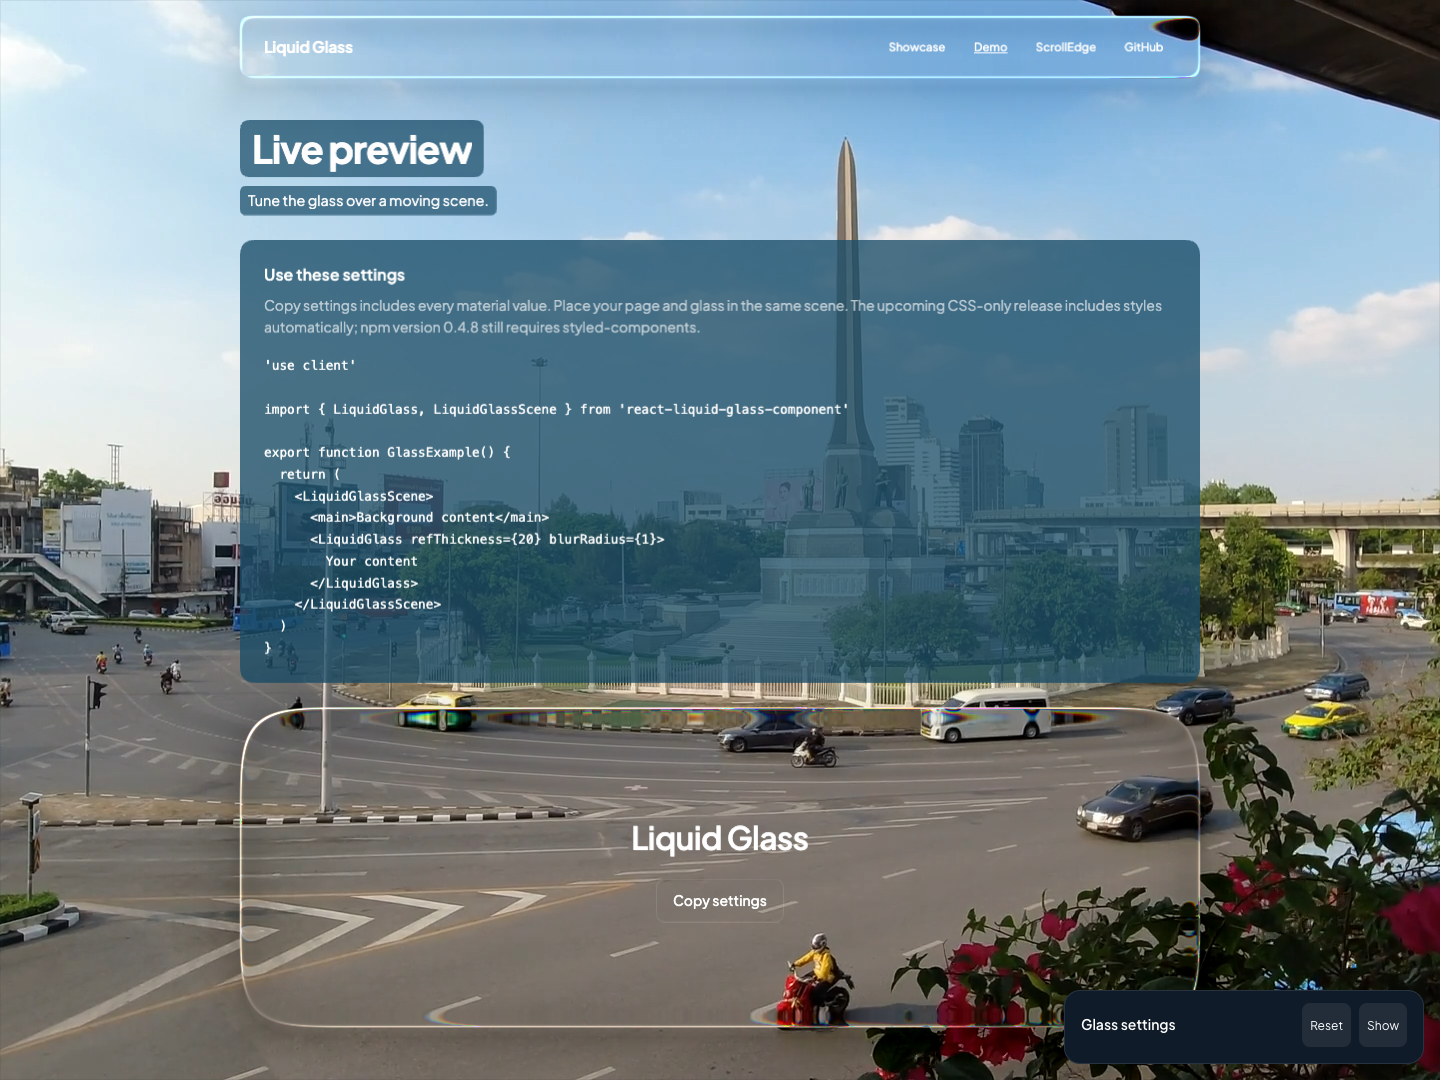
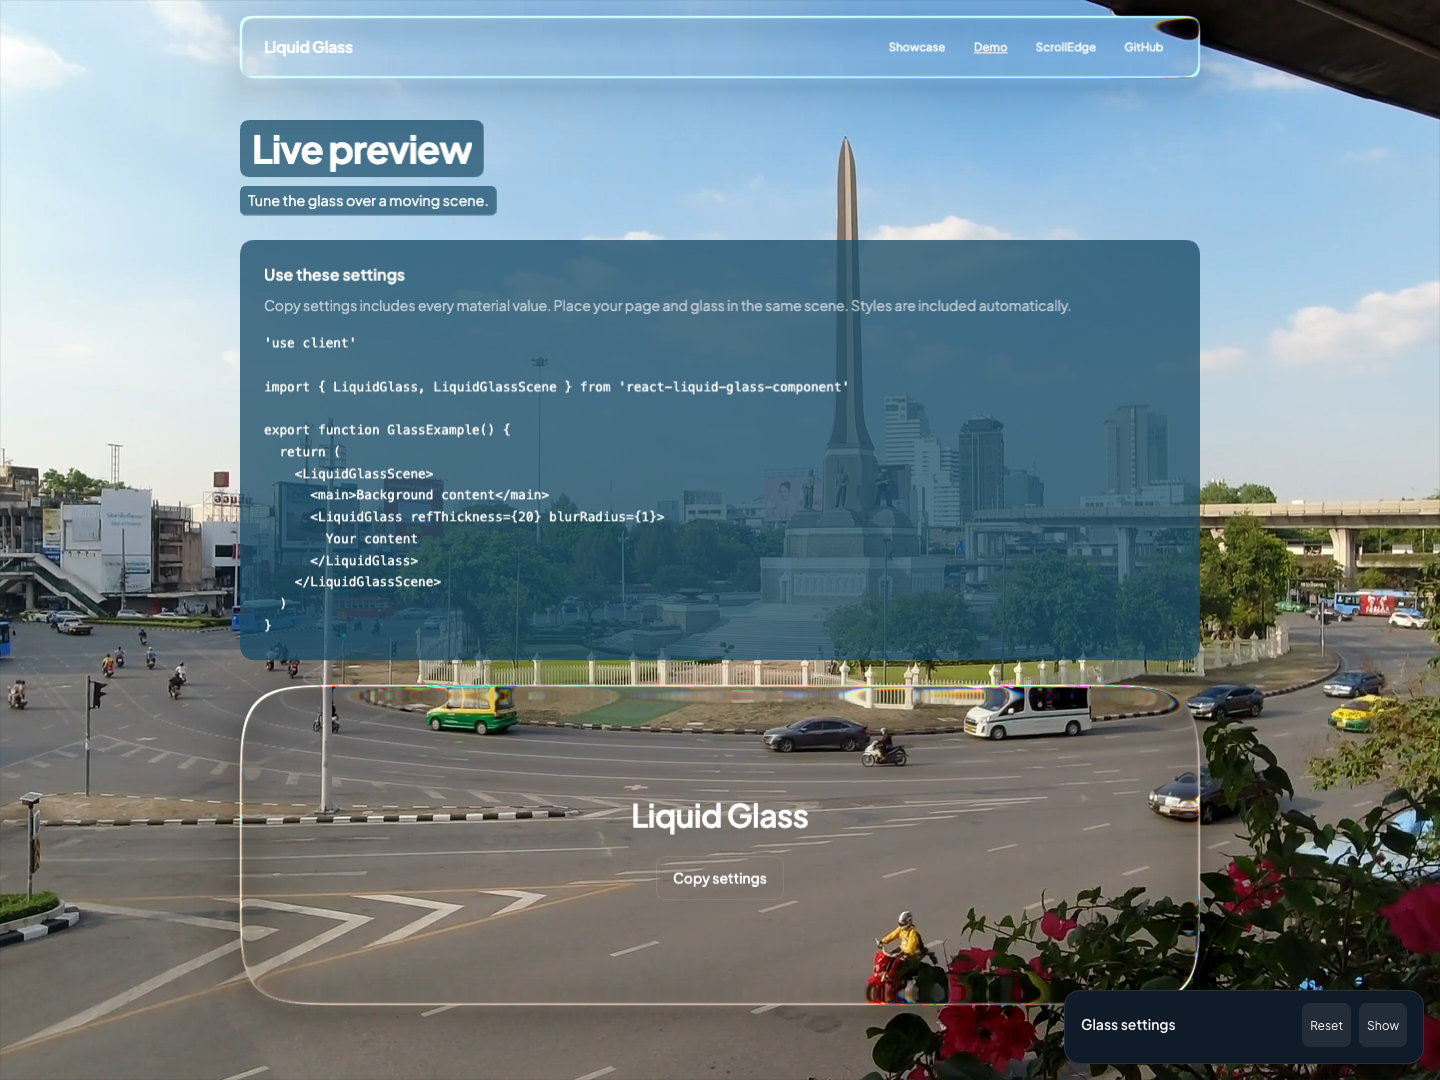
chore: release plain CSS library 0.4.9

diff --git a/web/components/showcase/canvas-showcase.tsx b/web/components/showcase/canvas-showcase.tsx
@@ -524,8 +524,8 @@ export default function CanvasShowcase() {
               <CopyControl text={installCommand} label="install command" />
             </div>
             <p className="canvas-showcase__install-note">
-              The current npm version, 0.4.8, also needs styled-components. The next release
-              includes CSS automatically and supports an optional shared stylesheet.
+              Styles are included automatically. To share one stylesheet, import styles.css and
+              set includeStyles to false.
             </p>
           </LiquidGlass>
 

diff --git a/web/components/demo/demo-panel.tsx b/web/components/demo/demo-panel.tsx
@@ -252,8 +252,7 @@ export function DemoPanel() {
             </h2>
             <p className="demo__hint">
               Copy settings includes every material value. Place your page and glass in the same
-              scene. The upcoming CSS-only release includes styles automatically; npm version 0.4.8
-              still requires styled-components.
+              scene. Styles are included automatically.
             </p>
             <pre className="demo__code">
               <code>{usageCode}</code>

diff --git a/web/README.md b/web/README.md
@@ -22,6 +22,6 @@ The site uses Plus Jakarta Sans and `styled-components` for its own UI. Keep its
 
 ## Test local library changes
 
-The demo normally uses the published version pinned in `package.json`. The source migration that removes the library's `styled-components` peer is not yet in npm `0.4.8`. To test it before release, build the package from the repository root and use a temporary local package installation in the demo. Restore the published dependency and `yarn.lock` before deploying.
+The demo normally uses the published version pinned in `package.json`. To test local library changes, build the package from the repository root and use a temporary local package installation in the demo. Restore the published dependency and `yarn.lock` before deploying.
 
 Import library components through `components/liquid-glass-client.tsx` so they stay behind a client boundary. See the [package README](../README.md) for examples and the [setup guide](../docs/knowledge/setup.md) for the local workflow.

diff --git a/README.md b/README.md
@@ -17,9 +17,7 @@ Sites using the library include [KA Technology](https://dev.kacorptech.com/) and
 
 ## Install
 
-> The CSS changes in this README are available in the current source but have not been published yet. npm version `0.4.8` still requires `styled-components`.
-
-After the next release, install the package with React 18 or newer and React DOM 18 or newer:
+Install the package with React 18 or newer and React DOM 18 or newer:
 
 ```bash
 npm install react-liquid-glass-component
